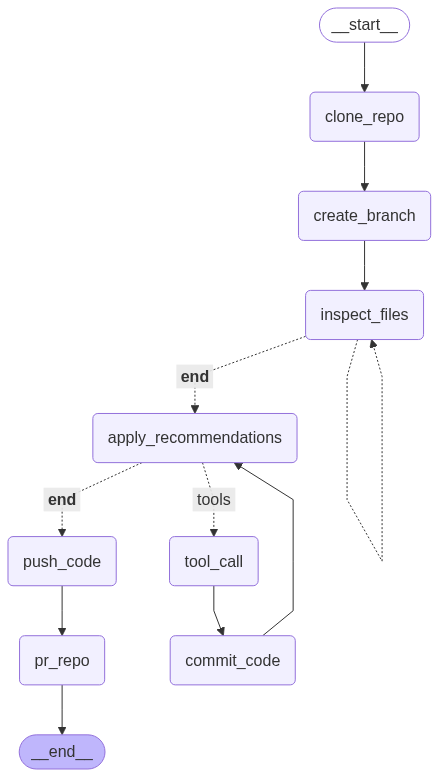
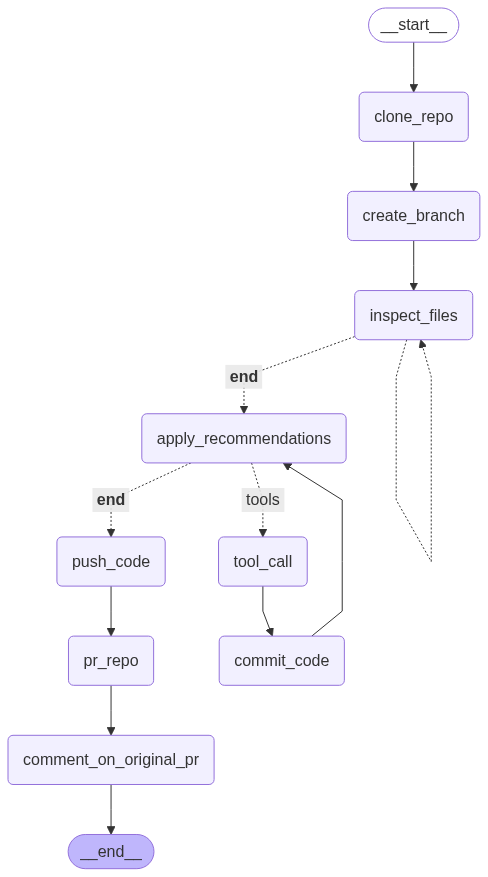
added comment to original PR

diff --git a/cli/src/core/nodes.py b/cli/src/core/nodes.py
@@ -3,11 +3,12 @@ import logging
 import os
 import tempfile
 from pathlib import Path
-from urllib.parse import quote, urlparse, urlunparse
+from urllib.parse import urlparse
 from uuid import uuid4
 
 from git import Repo, GitCommandError, InvalidGitRepositoryError, NoSuchPathError
 from github import Auth, Github
+from github.GithubException import GithubException
 from langchain_core.messages import HumanMessage
 from langgraph.graph import END
 
@@ -237,6 +238,66 @@ def pr_repo(state: DevAgentState) -> dict:
             f"❌ Failed to open PR {head_branch} → {base_branch}: "
             f"{exc.data.get('message', exc)}"
         )
+        logger.error(msg)
+        return {"messages": [HumanMessage(content=msg)]}
+
+
+def comment_on_original_pr(state: DevAgentState) -> dict:
+    """
+    comment_on_original_pr(state: DevAgentState) -> dict
+    This node creates a comment on the GitHub pull request that initiated the review process.
+    """
+    original_pr_url = state.get("original_pr_url")
+
+    # Retrieve GitHub Token
+    token = os.getenv("GITHUB_TOKEN", "").strip()
+    if not token:
+        msg = "❌ GITHUB_TOKEN is unset or empty."
+        logger.error(msg)
+        return {"messages": [HumanMessage(content=msg)]}
+
+    # Parse original PR URL to extract repo and PR number
+    try:
+        # Expected format: https://github.com/owner/repo/pull/123
+        url_parts = original_pr_url.rstrip("/").split("/")
+        if len(url_parts) < 7 or url_parts[-2] != "pull":
+            raise ValueError("Invalid PR URL format")
+
+        repo_name = f"{url_parts[-4]}/{url_parts[-3]}"
+        pr_number = int(url_parts[-1])
+    except (ValueError, IndexError) as e:
+        msg = f"❌ Failed to parse PR URL '{original_pr_url}': {e}"
+        logger.error(msg)
+        return {"messages": [HumanMessage(content=msg)]}
+
+    try:
+        gh = Github(auth=Auth.Token(token))
+        repo = gh.get_repo(repo_name)
+        pr = repo.get_pull(pr_number)
+    except Exception as exc:
+        msg = f"❌ Failed to access PR #{pr_number} in '{repo_name}': {exc}"
+        logger.error(msg)
+        return {"messages": [HumanMessage(content=msg)]}
+
+    # TODO: Add a summary of the changes made by the Critiquely review
+    comment_body = (
+        f"🤖 **Critiquely Review Complete**\n\n"
+        f"**Review PR:** {state.get("pr_url")}\n\n"
+        f"The improvements include automated code review fixes and enhancements. "
+        f"Please review the changes and merge if they look good!"
+    )
+
+    try:
+        pr.create_issue_comment(comment_body)
+        msg = f"✅ Commented on original PR {original_pr_url}"
+        logger.info(msg)
+        return {
+            "original_pr_url": original_pr_url,
+            "messages": [HumanMessage(content=msg)],
+        }
+
+    except Exception as exc:
+        msg = f"❌ Failed to comment on PR {original_pr_url}: {exc}"
         logger.error(msg)
         return {"messages": [HumanMessage(content=msg)]}
 

diff --git a/cli/src/main.py b/cli/src/main.py
@@ -22,6 +22,9 @@ logger = logging.getLogger(__name__)
     "--repo_url", required=True, help="The repository URL you want to critique"
 )
 @click.option(
+    "--original_pr_url", required=True, help="The pull request URL you want to critique"
+)
+@click.option(
     "--branch",
     required=True,
     help="The branch within the repository you want to critique",
@@ -32,7 +35,13 @@ logger = logging.getLogger(__name__)
     help="A json object consisting of the modified files",
 )
 @click.pass_context
-def cli(ctx: click.Context, repo_url: str, branch: str, modified_files: str) -> None:
+def cli(
+    ctx: click.Context,
+    repo_url: str,
+    original_pr_url: str,
+    branch: str,
+    modified_files: str,
+) -> None:
     """Run the code review CLI."""
 
     async def run():
@@ -43,6 +52,7 @@ def cli(ctx: click.Context, repo_url: str, branch: str, modified_files: str) -> 
         try:
             result = await run_review_graph(
                 repo_url=repo_url,
+                original_pr_url=original_pr_url,
                 base_branch=branch,
                 modified_files=modified_files,
             )

diff --git a/cli/src/core/graph.py b/cli/src/core/graph.py
@@ -9,6 +9,7 @@ from langgraph.prebuilt import ToolNode
 from src.core.nodes import (
     apply_recommendations_with_mcp,
     clone_repo,
+    comment_on_original_pr,
     commit_code,
     create_branch,
     inspect_files,
@@ -49,6 +50,7 @@ async def build_graph(
         graph_builder.add_node("push_code", push_code)
         graph_builder.add_node("commit_code", commit_code)
         graph_builder.add_node("pr_repo", pr_repo)
+        graph_builder.add_node("comment_on_original_pr", comment_on_original_pr)
 
         # ── Edges ──
         graph_builder.set_entry_point("clone_repo")
@@ -73,6 +75,7 @@ async def build_graph(
         graph_builder.add_edge("tool_call", "commit_code")
         graph_builder.add_edge("commit_code", "apply_recommendations")
         graph_builder.add_edge("push_code", "pr_repo")
+        graph_builder.add_edge("pr_repo", "comment_on_original_pr")
 
         # ── Compile ──
         graph = graph_builder.compile(checkpointer=memory)

diff --git a/cli/src/core/review.py b/cli/src/core/review.py
@@ -6,16 +6,16 @@ import json
 import logging
 
 
-from langchain_anthropic import ChatAnthropic
-from src.tools.mcp import get_mcp_client
-
-async def run_review_graph(repo_url: str, base_branch: str, modified_files: str):
+async def run_review_graph(
+    repo_url: str, original_pr_url: str, base_branch: str, modified_files: str
+):
     # Build the graph
     graph = await build_graph()
 
     # Define the input state
     input_state = {
         "repo_url": repo_url,
+        "original_pr_url": original_pr_url,
         "base_branch": base_branch,
         "modified_files": json.loads(modified_files),
         "messages": [],

diff --git a/cli/src/utils/state.py b/cli/src/utils/state.py
@@ -1,6 +1,5 @@
-import logging
-
 from src.core.state import DevAgentState
+
 
 def get_state_value(state: DevAgentState, key: str) -> str:
     """Raise a ValueError if state[key] is missing/empty after strip()."""
@@ -24,3 +23,4 @@ def get_state_value(state: DevAgentState, key: str) -> str:
             raise ValueError(msg)
 
     return val
+

diff --git a/cli/src/utils/routers.py b/cli/src/utils/routers.py
@@ -5,6 +5,7 @@ from src.core.state import DevAgentState
 
 logger = logging.getLogger(__name__)
 
+
 def has_more_files_to_inspect(state: DevAgentState) -> str:
     """Keep inspecting until the modified-file list is empty."""
     remaining = state.get("modified_files", [])

diff --git a/cli/src/core/state.py b/cli/src/core/state.py
@@ -25,6 +25,7 @@ class DevAgentState(TypedDict):
     recommendations: list[dict]
 
     # PR Details
+    original_pr_url: str
     pr_number: Optional[str]
     pr_url: Optional[str]
 

diff --git a/cli/src/utils/git.py b/cli/src/utils/git.py
@@ -1,5 +1,4 @@
 import os
-import logging
 from urllib.parse import urlparse, urlunparse, quote
 
 

diff --git a/README.md b/README.md
@@ -29,7 +29,7 @@ _Critiquely_ is an AI-powered CLI tool designed to review code changes in GitHub
 
 3. Run the CLI:
    ```bash
-   critiquely --repo_url https://github.com/Critiquely/critiquely.git  --branch langgraph --modified_files '[{"filename":"cli/src/main.py", "type":"modified","lines_changed":[10,11,32,33,34,35]},{"filename":"cli/src/core/nodes.py", "type":"modified","lines_changed":[10]}]'
+   critiquely --repo_url https://github.com/Critiquely/critiquely.git --original_pr_url https://github.com/Critiquely/critiquely/pull/31 --branch langgraph --modified_files '[{"filename":"cli/src/main.py", "type":"modified","lines_changed":[10,11,32,33,34,35]},{"filename":"cli/src/core/nodes.py", "type":"modified","lines_changed":[10]}]'
    ```
 
 ## MCP Integration
